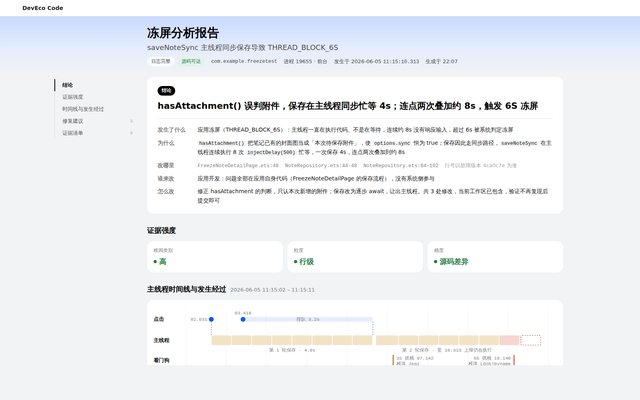
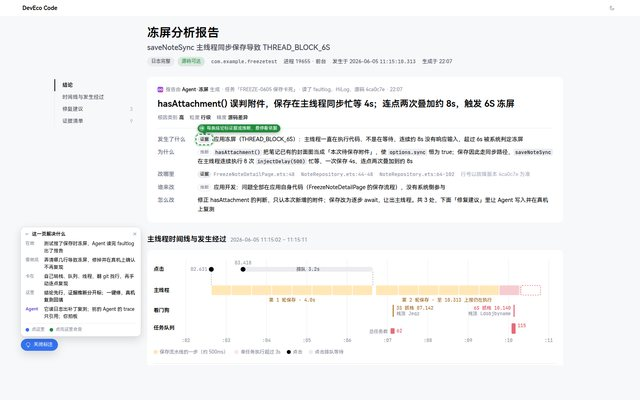
终轮 22–25、28：报告由 Agent 生成并标证据/推断、一键修并真机复测；外部 Agent 与插件工具的授权与排队；手机只推最挡路的一件

diff --git a/demos/08-answer-compression/index.html b/demos/08-answer-compression/index.html
@@ -91,8 +91,10 @@
   .desk{position:absolute;top:0;right:0;bottom:0;width:var(--desk-w);display:none;flex-direction:column;align-items:center;gap:10px;padding:0 0 16px;overflow:hidden;z-index:6;background:var(--ui-bg);box-shadow:inset 1px 0 0 var(--ui-border)}
   .ide.desk-on .desk{display:flex}
   /* 实况窗区让出右侧后 Header 变窄：胶囊保住可读宽度，右侧工具按钮先被裁 */
+  .ide.desk-on .hdr .zone.center{flex:none;min-width:280px}
   .ide.desk-on .hdr #hdr-agent{flex:none;min-width:240px}
-  .ide.desk-on .hdr .zone.right{min-width:0;overflow:hidden}
+  .ide.desk-on .hdr .zone.right{min-width:0;overflow:hidden;justify-content:flex-start}
+  .ide.desk-on .hdr .zone.right > *{flex:none}
   /* 鸿蒙电脑状态栏（屏幕右上角那一段）+ 实况胶囊 */
   .pcbar{align-self:stretch;height:30px;flex:none;display:flex;align-items:center;justify-content:flex-end;gap:10px;padding:0 12px;font-size:var(--fs-sm);color:var(--ui-fg)}
   .pcbar svg.i{width:14px;height:14px}

diff --git a/analysis/ablation/28-appfreeze-report.md b/analysis/ablation/28-appfreeze-report.md
@@ -1,0 +1,21 @@
+# 28 冻屏分析报告 · 消融记录（终轮）
+
+- **没有 Agent**：拿到 faultlog 自己读 EventHandler 队列、主线程栈、线程列表，按排除法走一遍，再翻源码和 git 找到行、手写补丁，最后在真机上开冻屏测试模式连点复现、看有没有再上报。
+- **有 Agent**：报告本身由 Agent·冻屏 生成（写明读了 faultlog、HiLog、源码 4ca0c7e），结论先行；结论每一行标「证据」或「推断」，悬停看依据。源码可达版点「让 Agent 修并真机复测」→ 它写入 3 处补丁（修复卡标「Agent·冻屏 写入 · 退回」）、构建 → 停下等你（琥珀：覆盖安装、打开冻屏测试模式、连点 3 轮）→ 在 Mate 70 Pro 上复测 → 结论回填「已修复 · 复测 3/3」，证据清单多一项「真机复测」。源码不可达版点「让 Agent 读源码出补丁」→ 先问你要读源码的许可 → 检索 + git 考古后切到源码可达版，推断变成证据。
+- **多 Agent**：证据按任务 / Agent 归档：「采样栈」缺数据时，报告写明同一时段有一份 Agent·性能 的 trace（任务「ListPage 掉帧」），归那个任务、不混进来；点「引用到本任务」后这一项变为命中并标「引自 Agent·性能」，原始 trace 仍留在原任务。
+
+| 元素 | 结果 | 依据 |
+|---|---|---|
+| 结论卡顶部「报告由 Agent·冻屏 生成 · 任务 · 读了什么」一行 | 新增 | 报告由 Agent 生成，来源写清 |
+| 结论每行「证据 / 推断」标记（悬停看依据） | 新增 | 读报告的人要先分清量到的和推出来的 |
+| 修复建议里的 Agent 卡（工具行、琥珀审批、结论先行的复测结果） | 新增 | 「让 Agent 修」出补丁并在设备上复测 |
+| 修复卡的「Agent·冻屏 写入 · 退回」来源标记 | 新增 | AI 写的改动带来源、可退 |
+| 证据清单「真机复测」项、「采样栈」的引用 / 「引自 Agent·性能」 | 新增 | 复测证据归档到本任务；别的 Agent 的证据只引用不混放 |
+| 「证据强度」整节（三张卡 + 目录项） | 合并成结论卡里的一行「根因类别 高 · 粒度 行级 · 精度 源码差异」 | 与逐行证据 / 推断标记表达同一件事，独占一屏太重 |
+| 结论卡的黑底「结论」标签 | 删除 | 章节标题与目录已说明这是结论 |
+| 头图蓝色渐变 | 删除 | 装饰渐变、大面积蓝 |
+| 修复编号黑色实心圆 | 改中性填充 | 减少重色 |
+| 时间线点击的蓝色点 / 线 / 排队条、悬停高亮蓝底、发生经过选中蓝字 | 改中性 | 蓝不做图表系列 |
+| 写死的官网色板（只有浅色） | 改为 tokens.css 语义色，补深色主题与顶栏主题切换 | 字体、颜色走 tokens；深浅都要好看 |
+| 700 字重、写死的 favicon 色块 | 改 600 / 换 DevEco Code 图标 | 字重 ≤ 600 |
+| 时间线、发生经过、修复 diff、证据清单、原始日志与复制 | 保留 | 报告主体与手动核对路径 |
